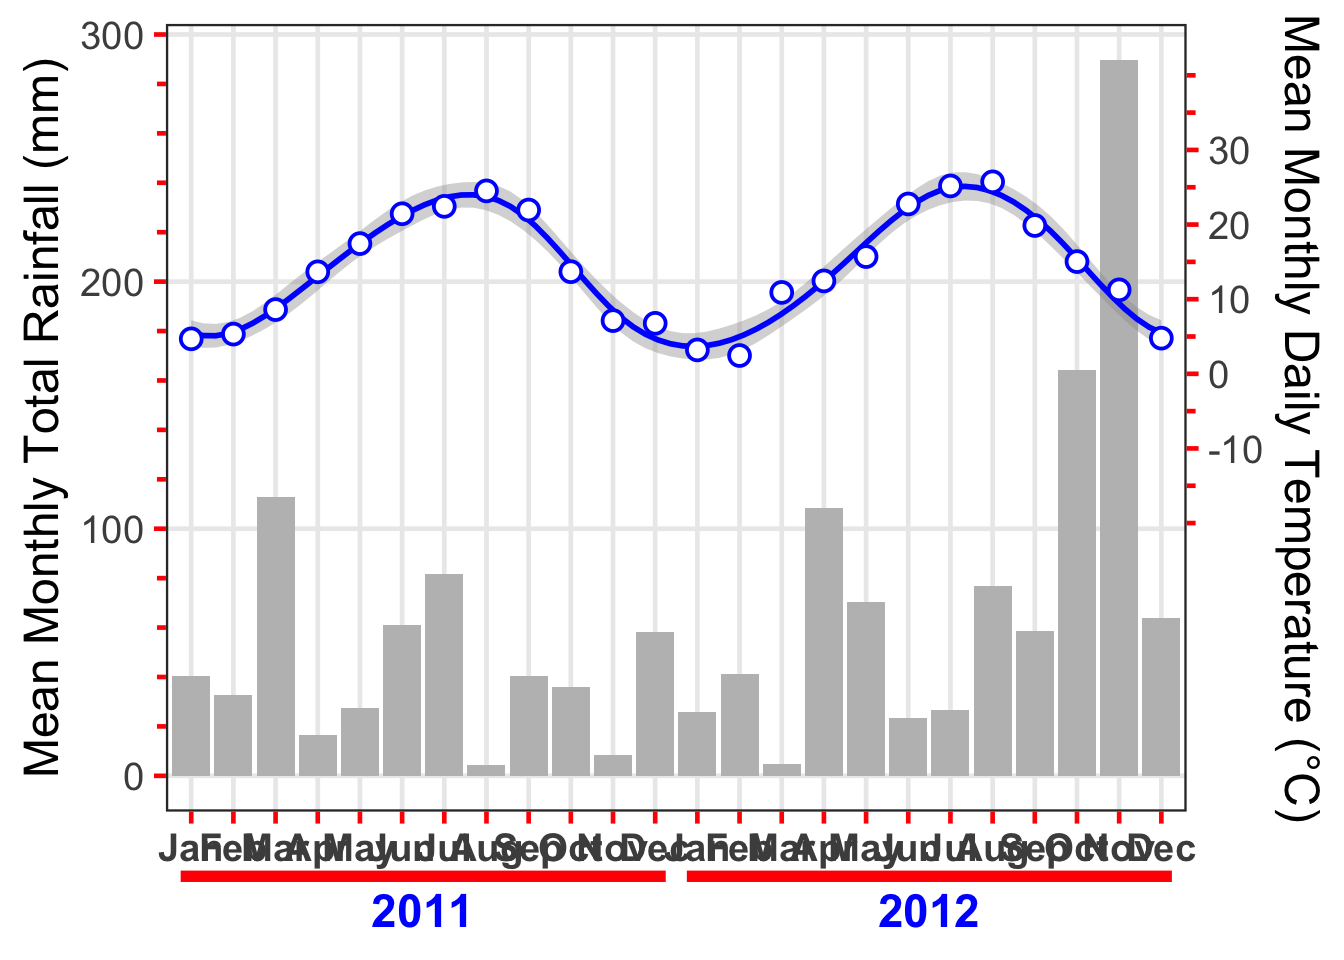
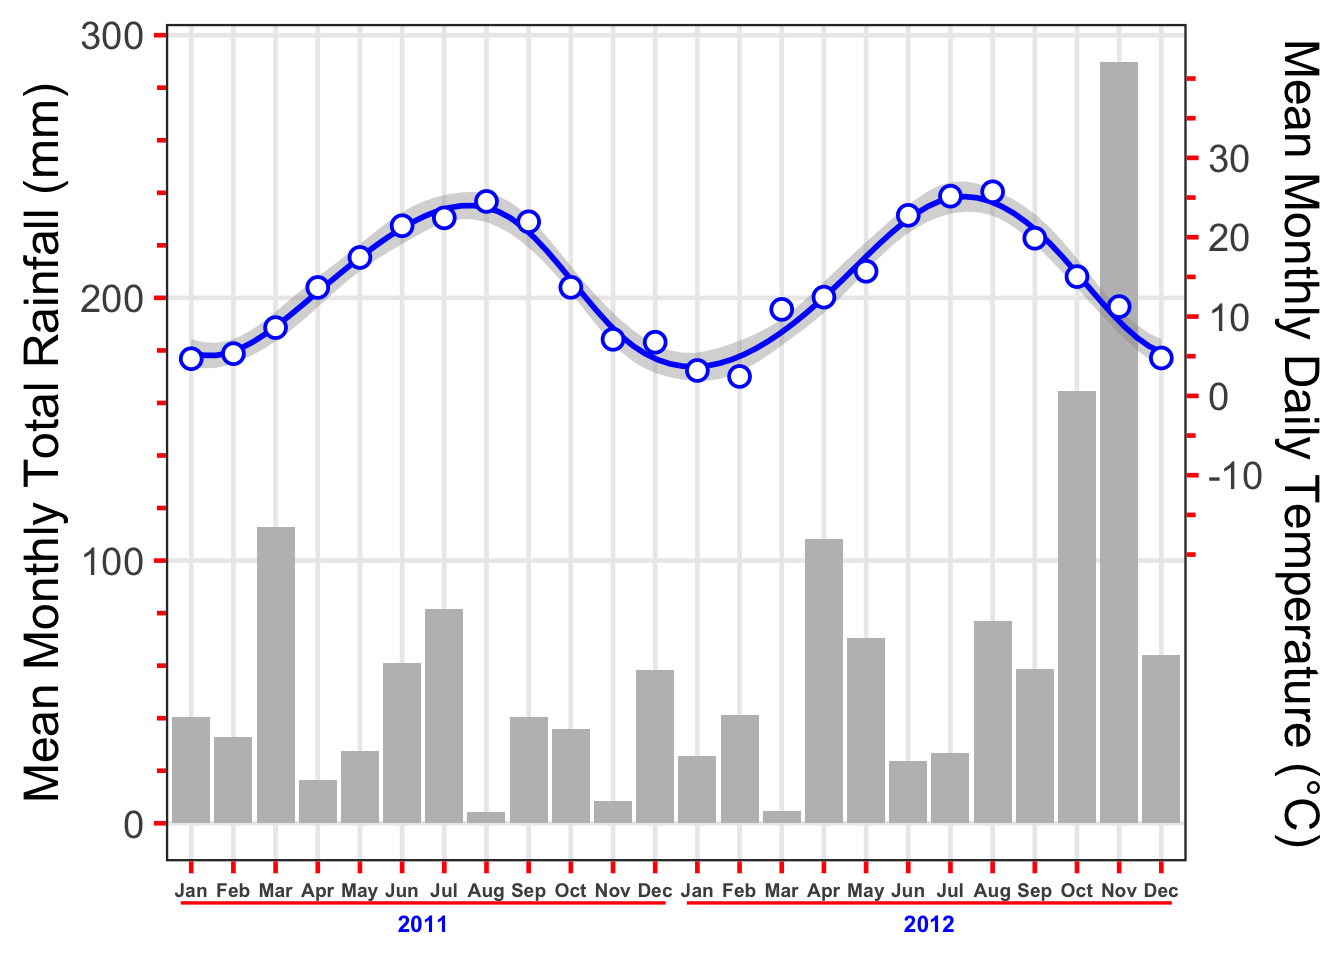
Minor update

diff --git a/content/post/R_ggplot_dualScaledAxes.html b/content/post/R_ggplot_dualScaledAxes.html
@@ -123,7 +123,7 @@ University of Perugia (Italy)<br />
 <hr />
 <div id="update-662024" class="section level1">
 <h1>UPDATE (6/6/2024)</h1>
-<p>Ross Gilmoure from Galileo Consulting (Kuala Lumpur) sent me an interesting comment, proposing the use of the ‘lubridate’ package for the management of dates and of the ‘ggh4x’ package, to exploit the nested axis capabilities of this latter. Basically, his graph does not have facets, but the two years are put one after the other. Furthermore, he made use of minor ticks, which might be a good idea. Ross’ code is following: I’d like to thank him very much!</p>
+<p>Ross Gilmoure from Galileo Consulting (Kuala Lumpur) sent me an interesting comment, proposing the use of the ‘lubridate’ package for the management of dates and of the ‘ggh4x’ package, to exploit the nested axis capabilities of this latter. Basically, his graph does not have facets, but the two years are put one after the other. Furthermore, he calculated the montly means for temperature and fitted a cubic spline using ‘geom_smooth()’ and ‘method=“gam”’; he also made use of minor ticks, which might be a good idea. Ross’code is following: I’d like to thank him very much!</p>
 <pre class="r"><code>library(lubridate)
 library(ggh4x)
 dataMeteo1 &lt;- dataMeteo |&gt;
@@ -167,9 +167,9 @@ ggplot(dataMeteo3, mapping = aes(x = interaction(Mth, Year),
   theme(
      panel.grid.minor = element_blank(),
      axis.title.x = element_blank(),
-     axis.text.x = element_text(face = &quot;bold&quot;),
+     axis.text.x = element_text(face = &quot;bold&quot;, size = rel(0.5)),
      axis.ticks = element_line(colour = &quot;red&quot;),
-     ggh4x.axis.nestline.x = element_line(linewidth = 2),
+     ggh4x.axis.nestline.x = element_line(linewidth = 0.6),
      ggh4x.axis.nesttext.x = element_text(colour = &quot;blue&quot;, 
                                           face = &quot;bold&quot;, 
                                           size = rel(1.2))
